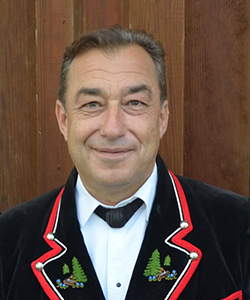
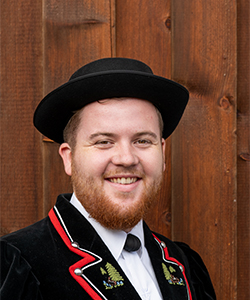
Dirigent angepasst

diff --git a/index.html b/index.html
@@ -54,54 +54,6 @@
         <ul>
           <li>
             <div class="info">
-              <p class="title">11. / 12. Januar 2025</p>
-              <p class="text">Unterhaltung, Bauma</p>
-            </div>
-          </li>
-          <li>
-            <div class="info">
-              <p class="title">18. Januar 2025</p>
-              <p class="text">Ehrung Réne Huber</p>
-            </div>
-          </li>
-          <li>
-            <div class="info">
-              <p class="title">03. März 2025</p>
-              <p class="text">Generalversammlung</p>
-            </div>
-          </li>
-          <li>
-            <div class="info">
-              <p class="title">09. März 2025</p>
-              <p class="text">Kirche Fischenthal</p>
-            </div>
-          </li>
-          <li>
-            <div class="info">
-              <p class="title">12./13. April 2025</p>
-              <p class="text">Clubreise</p>
-            </div>
-          </li>
-          <li>
-            <div class="info">
-              <p class="title">26. April 2025</p>
-              <p class="text">Hasle-Rüegsau</p>
-            </div>
-          </li>
-          <li>
-            <div class="info">
-              <p class="title">01. Mai 2025</p>
-              <p class="text">Natürli Saland</p>
-            </div>
-          </li>
-          <li>
-            <div class="info">
-              <p class="title">22. Juni 2025</p>
-              <p class="text">Empfang TV Bauma Delegation vom Chörli</p>
-            </div>
-          </li>
-          <li>
-            <div class="info">
               <p class="title">04.-06. Juli 2025</p>
               <p class="text">NOSJV-Jodlerfest Altstätten SG</p>
             </div>
@@ -143,6 +95,7 @@
               <p class="text">Unterhaltung Altlandenberg Bauma</p>
             </div>
           </li>
+          
         </ul>
       </div>
     </section>
@@ -155,11 +108,10 @@
         <div class="jodler_gruppe_box">
           <div class="box">
             <picture>
-              <source srcset="bilder/webp/Dirigent.webp" type="image/webp">
               <source srcset="bilder/JPG/Dirigent.jpg" type="image/jpeg"> 
               <img src="bilder/JPG/Dirigent.jpg" alt="Dirigent">
             </picture>
-            <p class="text">Andreas Niederhauser</p>
+            <p class="text">Tobias Rutschi</p>
             <p class="info-text">Seit: 2025</p>
           </div>          
         </div>
@@ -211,7 +163,7 @@
                 </picture>
                 <p class="text">Tobias Rutschi</p>
                 <p class="info-text">Seit: 2017</p>
-                <p class="info-text">Vizedirigent, Aktuar</p>
+                <p class="info-text">Aktuar</p>
               </div>
             </div>
           </div>
@@ -263,7 +215,7 @@
                 </picture>
                 <p class="text">René Huber</p>
                 <p class="info-text">Seit: 1998</p>
-                <p class="info-text">Kassier</p>
+                <p class="info-text">Kassier, Vizedirigent, Veteran</p>
               </div>
               <div class="box">
                 <picture>
